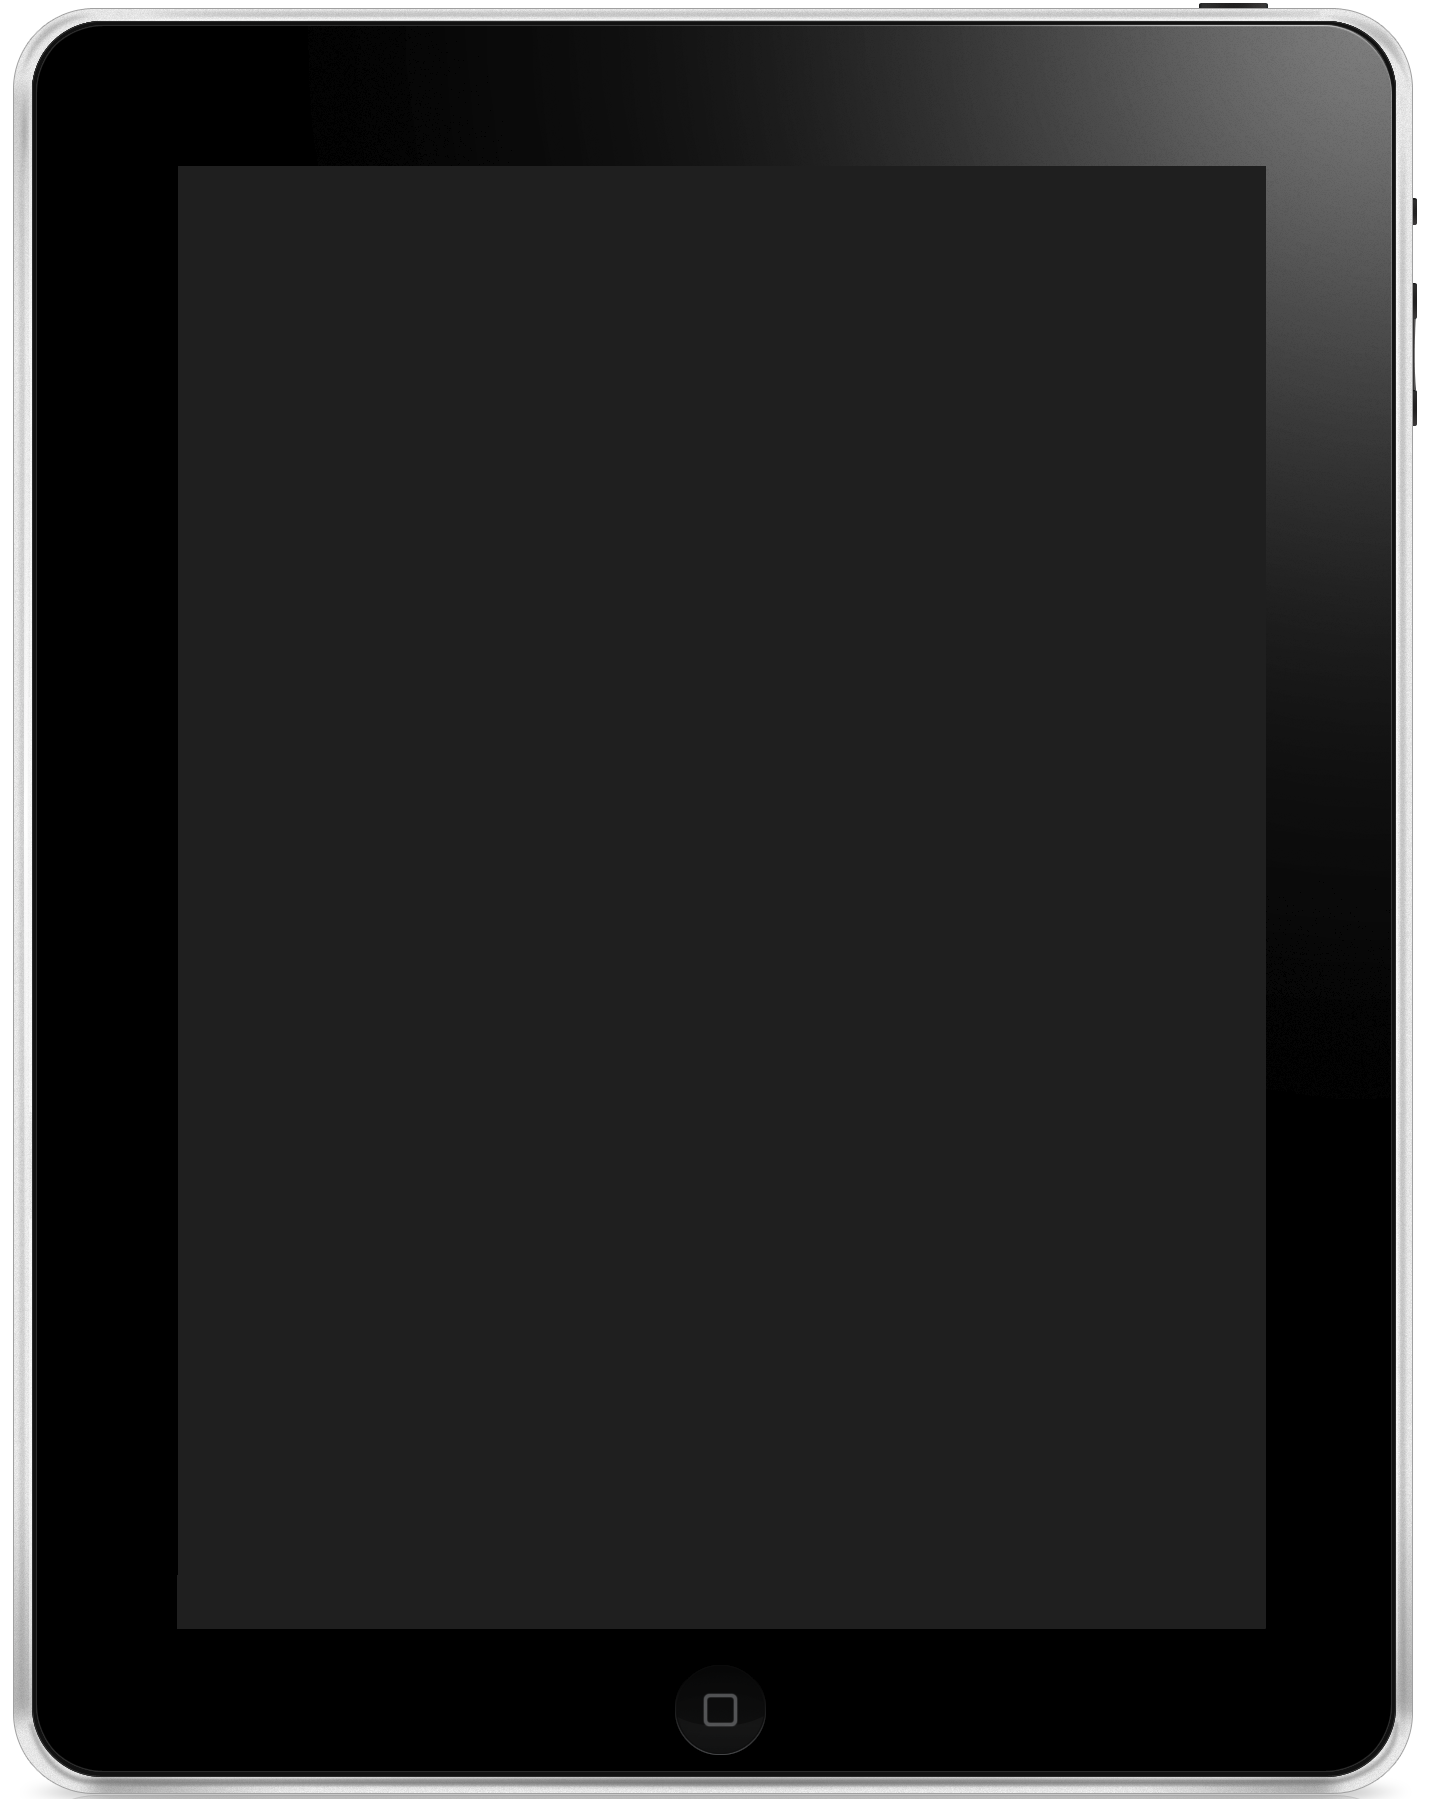
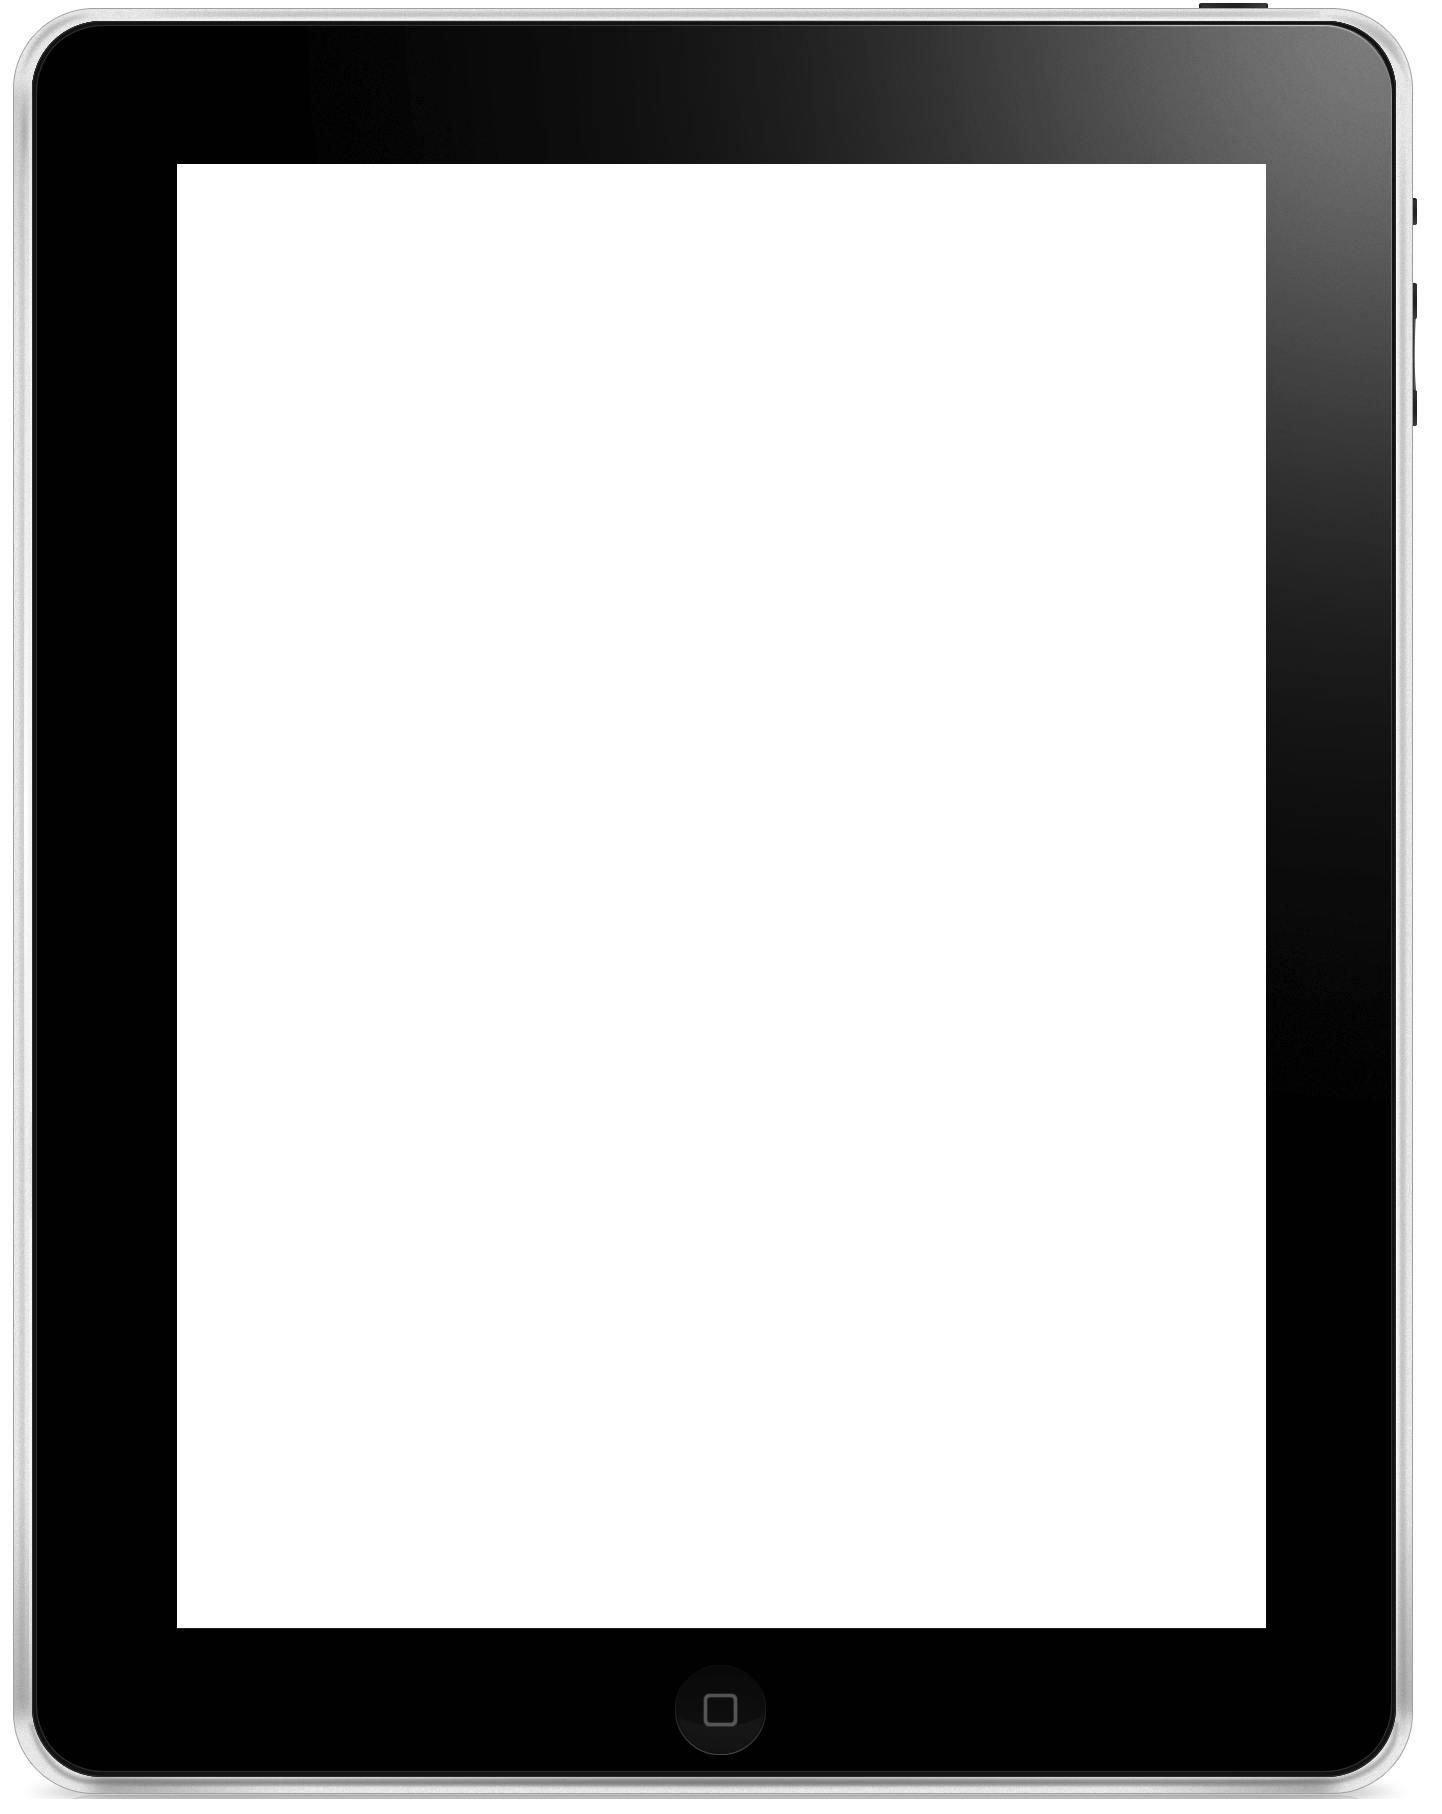
Added ipad and a bit more formatting for arrows on project page

diff --git a/ronathan.html b/ronathan.html
@@ -186,15 +186,16 @@
 	</div>
 
 	<div id="projects" class="grid-container">
-		<div class="grid-1" style="height:100%;">
-			<span style="vertical-align:middle;"> < </span>
+		<div class="grid-1" style="height:100%; display:table;">
+			<span style="display:table-cell; vertical-align:middle; padding-left:10px;"><h1> < </h1></span>
 		</div>
 
 		<div class="grid-10" style="height:100%; background-color:#404457; display:table; vertical-align:middle;">
-			<img id="projects-display" class="macbook-image" src="images/front-end-imac2.png" style="width:100%; display:table-cell; vertical-align:middle;"/>
+			<div id="projects-display"></div>
 		</div>
 
-		<div class="grid-1" style="height:100%;">
+		<div class="grid-1" style="height:100%; display:table;">
+			<span style="display:table-cell; vertical-align:middle; text-align:right; padding-right:10px;"><h1> > </h1></span>
 		</div>
 	</div>
 

diff --git a/css/style.css b/css/style.css
@@ -389,6 +389,17 @@ p {
 	height:250px;
 	margin-top:-100px;
 }
+#projects-display {
+	height:auto;
+	width:100%; 
+	display:table-cell; 
+	vertical-align:middle;
+	background-image:url(../images/front-end-imac2.png);
+	background-attachment:fixed;
+	background-repeat:no-repeat;
+	background-size:contain;
+	background-position:center center;
+}
 /* 2 Columns for ABOUT ME page */
 @media (max-width: 791px) {
 	.aboutme-item-container {
@@ -409,8 +420,8 @@ p {
 	}
 }
 
-/*@media (max-width:1000px) {
+@media (max-width:1100px) {
 	#projects-display {
-		src:(../images/ipad.png);
+		background-image:url(../images/ipad.png);
 	}
-}*/
+}

diff --git a/css/grid.css b/css/grid.css
@@ -27,9 +27,9 @@ html, body, .ronathan-container {
 		margin-left:0px;
 	}
 
-/*	.grid-container > [class^="grid-"]:last-child {
+	.grid-container > [class^="grid-"]:last-child {
 		float:right;
-	}*/
+	}
 
 	.grid-container:after {
 		content: " ";
